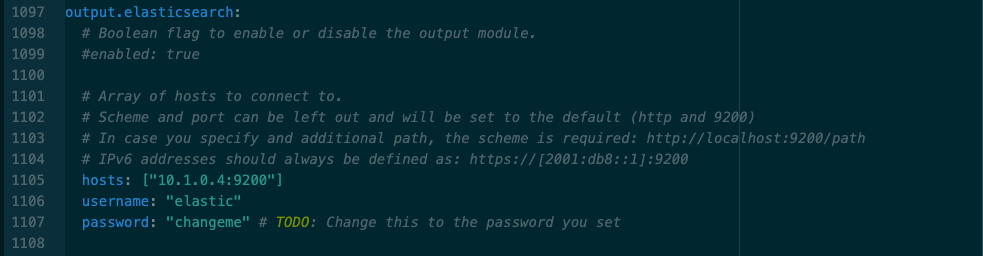
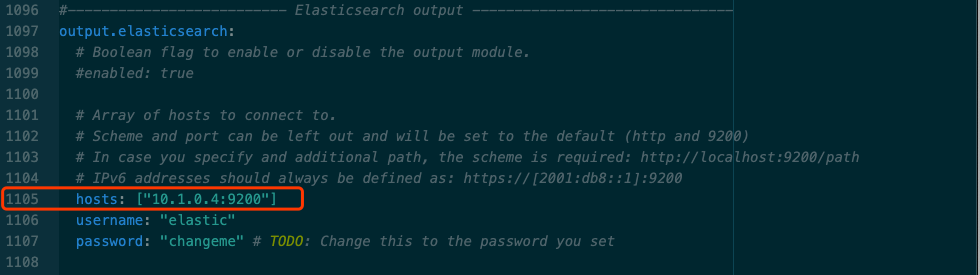
added new screenshots and updated readme

Changed region(s): [[0.0, 0.0, 0.8878, 0.9688], [0.9796, 0.0, 1.0, 1.0]]

diff --git a/README.md b/README.md
@@ -309,14 +309,119 @@ Copy the provided configuration file for Filebeat to your Ansible container: [Fi
 Edit the configuration in this file to match the settings described in the installation instructions for your server
 - Because we are connecting your DVWA machines to the ELK server, we need to edit the file to include your ELK server's IP address
   - Note that the default credentials are **elastic:changeme** and should not be changed at this step
+
+Scroll to line #1105 and replace the IP address with the IP address of your ELK machine
 ![](Images/filebeat-configuration-elasticsearch.png)
 
-  - [elk-playbook.yml](YMAL/elk-playbook.yml)
-  - [filebeat-playbook.yml](YMAL/filebeat-playbook.yml)
+Scroll to line #1805 and replace the IP address with the IP address of your ELK machine
+![](Images/filebeat-configuration-kibana.png)
 
-  - [filebeat.yml](YMAL/filebeat.yml)
+Save this file in `/etc/ansible/files/filebeat-configuration.yml`
+
+3. Creating the Filebeat Installation Play
+
+Create another Ansible playbook that accomplishes the Linux Filebeat installation instructions
+
+- The playbook should:
+  - Download the **.deb** file from [artifacts.elastic.co](https://artifacts.elastic.co/downloads/beats/filebeat/filebeat-7.4.0-amd64.deb)
+  - Install the **.deb** file using the **dpkg** command shown below:
+    
+        dpkg -i filebeat-7.4.0-amd64.deb
+    
+  - Copy the Filebeat configuration file from your Ansible container to your ELK VM
+    - You can use the Ansible module **copy** to copy the entire configuration file into the correct place
+    - You will need to place the configuration file in a directory called **files** in your Ansible directory
+
+  - Run the command `filebeat modules enable system` to enable and configure system module
+  - Run the command `filebeat setup` to setup filebeat
+  - Run the command `service filebeat start` to start filebeat service
+  
+- Run the command `ansible-playbook filebeat-playbook.yml` to deploy the filebeat to the DVWA-VM1 and DVWA-VM2
+
+4. Verifying Installation and Playbook
+
+Next, you needed to confirm that the ELK stack was receiving logs. Navigate back to the Filebeat installation page on the ELK server GUI
+
+- Verify that your playbook is completing Steps 1-4
+- On the same page, scroll to **Step 5: Module Status** and click **Check Data**
+- Scroll to the bottom and click on **Verify Incoming Data**
+![](Images/filebeat-verify-incoming-data.png)
   
 ##### Metricbeat Deployment
+
+Below are the solution configuration files for setting up the Metricbeat configuration and playbook:
+
+  - [Metricbeat Configuration](YAML/Metricbeat/metricbeat-configuration.yml)
+  - [Metricbeat Playbook](YAML/Metricbeat/metricbeat-playbook.yml)
+
+1. Installing Metricbeat on the DVWA Container
+
+First, make sure that our ELK server container is up and running.
+
+- Navigate to http://[your.VM.IP]:5601. Use the public IP address of the ELK server that you created
+- If you do not see the ELK server landing page, open a terminal on your computer and SSH into the ELK server
+  - Run `sudo docker ps ` to verify that the container is on
+  - If it isn't, run `sudo docker start elk`
+
+Install Metricbeat on your DVWA VM:
+
+- Open your ELK server homepage
+
+  - Click on **Add Metric Data**
+  - Choose **Docker Metrics**
+  - Click on the **DEB** tab under **Getting Started** to view the correct Linux Metricbeat installation instructions
+
+2. Creating the Metricbeat Configuration File
+
+Next, create a Metricbeat configuration file and edit this file so that it has the correct settings to work with your ELK server
+
+- Open a terminal and SSH into your jump box:
+
+  - Start the Ansible container
+  - SSH into the Ansible container
+
+Copy the provided configuration file for Metricbeat to your Ansible container: [Metricbeat Configuration File Template](YAML/Metricbeat/metricbeat-configuration.yml)
+
+Edit the configuration in this file to match the settings described in the installation instructions for your server
+- Because we are connecting your DVWA machines to the ELK server, we need to edit the file to include your ELK server's IP address
+  - Note that the default credentials are **elastic:changeme** and should not be changed at this step
+
+Scroll to line #97 and replace the IP address with the IP address of your ELK machine
+![](Images/metricbeat-configuration-elasticsearch.png)
+
+Scroll to line #63 and replace the IP address with the IP address of your ELK machine
+![](Images/filebeat-configuration-kibana.png)
+
+Save this file in `/etc/ansible/files/filebeat-configuration.yml`
+
+3. Creating the Filebeat Installation Play
+
+Create another Ansible playbook that accomplishes the Linux Filebeat installation instructions
+
+- The playbook should:
+  - Download the **.deb** file from [artifacts.elastic.co](https://artifacts.elastic.co/downloads/beats/filebeat/filebeat-7.4.0-amd64.deb)
+  - Install the **.deb** file using the **dpkg** command shown below:
+    
+        dpkg -i filebeat-7.4.0-amd64.deb
+    
+  - Copy the Filebeat configuration file from your Ansible container to your ELK VM
+    - You can use the Ansible module **copy** to copy the entire configuration file into the correct place
+    - You will need to place the configuration file in a directory called **files** in your Ansible directory
+
+  - Run the command `filebeat modules enable system` to enable and configure system module
+  - Run the command `filebeat setup` to setup filebeat
+  - Run the command `service filebeat start` to start filebeat service
+  
+- Run the command `ansible-playbook filebeat-playbook.yml` to deploy the filebeat to the DVWA-VM1 and DVWA-VM2
+
+4. Verifying Installation and Playbook
+
+Next, you needed to confirm that the ELK stack was receiving logs. Navigate back to the Filebeat installation page on the ELK server GUI
+
+- Verify that your playbook is completing Steps 1-4
+- On the same page, scroll to **Step 5: Module Status** and click **Check Data**
+- Scroll to the bottom and click on **Verify Incoming Data**
+![](Images/filebeat-verify-incoming-data.png)
  
 ### Redundancy Testing
 
